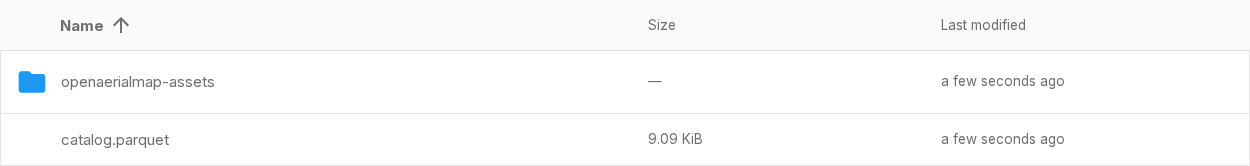
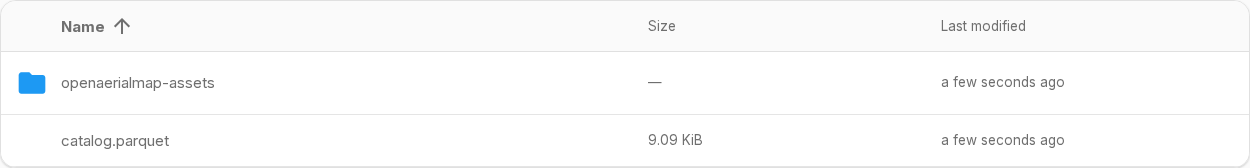
styling changes

diff --git a/frontend/tests/layout.spec.ts b/frontend/tests/layout.spec.ts
@@ -1,78 +1,6 @@
 import { expect, test } from "@playwright/test";
 import { AuthPage } from "./fixtures/auth";
 
-for (const viewport of [
-  { width: 320, height: 568 },
-  { width: 568, height: 320 },
-]) {
-  test(`login controls stay clear of the footer at ${viewport.width}px`, async ({
-    page,
-  }) => {
-    await page.setViewportSize(viewport);
-    const auth = new AuthPage(page);
-    await auth.goto();
-    await page.evaluate(() => document.fonts.ready);
-    for (const selector of [".versioneer-logo", ".eox-logo"]) {
-      const maintainerLogo = page.locator(selector);
-      await expect(maintainerLogo).toBeVisible();
-      expect(
-        await maintainerLogo.evaluate(
-          (image: HTMLImageElement) => image.naturalWidth
-        )
-      ).toBeGreaterThan(0);
-    }
-    expect(
-      await page.locator("#login").evaluate((login) => {
-        return getComputedStyle(login).backgroundColor;
-      })
-    ).toBe(
-      await page.locator("body").evaluate((body) => {
-        return getComputedStyle(body).backgroundColor;
-      })
-    );
-    const button = page.getByRole("button", { name: "Login", exact: true });
-    const buttonBox = await button.boundingBox();
-    const footerBox = await page.locator("#about").boundingBox();
-    expect(buttonBox).not.toBeNull();
-    expect(footerBox).not.toBeNull();
-    expect(buttonBox!.y + buttonBox!.height).toBeLessThan(footerBox!.y);
-    expect(
-      await page.evaluate(() => document.documentElement.scrollWidth)
-    ).toBeLessThanOrEqual(viewport.width);
-    await auth.loginAs();
-    await expect(page.getByLabel("sample.txt", { exact: true })).toBeVisible();
-  });
-}
-
-test("login has a visible keyboard focus state", async ({ page }) => {
-  const auth = new AuthPage(page);
-  await auth.goto();
-  await page.getByPlaceholder("Username").fill("admin");
-  await page.getByPlaceholder("Password").fill("my-password");
-  await page.keyboard.press("Tab");
-  const button = page.getByRole("button", { name: "Login", exact: true });
-  await expect(button).toBeFocused();
-  await expect(button).toHaveCSS("outline-style", "solid");
-  await expect(button).toHaveCSS("outline-width", "2px");
-  await page.keyboard.press("Enter");
-  await expect(page.getByLabel("sample.txt", { exact: true })).toBeVisible();
-});
-
-test("default logo stays visible in dark mode", async ({ page }) => {
-  const auth = new AuthPage(page);
-  await auth.goto();
-  await page.evaluate(() => document.documentElement.classList.add("dark"));
-  await expect(page.locator("#login .logo-img")).toHaveCSS(
-    "filter",
-    "invert(1)"
-  );
-  await auth.loginAs();
-  await expect(page.locator("header .logo-img")).toHaveCSS(
-    "filter",
-    "invert(1)"
-  );
-});
-
 test("closes the latest overlay first", async ({ page }) => {
   await page.setViewportSize({ width: 390, height: 844 });
   const auth = new AuthPage(page);
@@ -96,111 +24,15 @@ test("closes the latest overlay first", async ({ page }) => {
   await expect(page.locator("#dropdown")).not.toHaveClass(/\bactive\b/);
 });
 
-for (const width of [768, 1440]) {
-  test(`long names do not overlap file sizes at ${width}px`, async ({
-    page,
-  }) => {
-    await page.setViewportSize({ width, height: 900 });
-    const auth = new AuthPage(page);
-    await auth.goto();
-    await auth.loginAs();
-    await expect(page.getByLabel("sample.txt", { exact: true })).toBeVisible();
-    const name = "xyz-" + "abcdefghij".repeat(14) + ".txt";
-    await page.route(
-      (url) => url.pathname === "/api/resources/",
-      async (route) => {
-        const response = await route.fetch();
-        const json = await response.json();
-        const item = json.items.find(
-          (entry: { name: string }) => entry.name === "sample.txt"
-        );
-        item.name = name;
-        item.path = "/" + name;
-        await route.fulfill({ response, json });
-      }
-    );
-    await page.goto("/files/");
-    await expect(page.locator("#listing")).toHaveClass(/\blist\b/);
-    const row = page.getByLabel(name, { exact: true });
-    await expect(row).toBeVisible();
-    await page.evaluate(() => document.fonts.ready);
-    const nameBox = await row.locator(".name").boundingBox();
-    const sizeBox = await row.locator(".size").boundingBox();
-    const headingBox = await page
-      .locator("#listing .item.header .size")
-      .boundingBox();
-    expect(nameBox).not.toBeNull();
-    expect(sizeBox).not.toBeNull();
-    expect(headingBox).not.toBeNull();
-    expect(nameBox!.x + nameBox!.width).toBeLessThanOrEqual(sizeBox!.x + 1);
-    expect(Math.abs(headingBox!.x - sizeBox!.x)).toBeLessThan(2);
-  });
-}
-
-for (const width of [320, 390]) {
-  test(`nested breadcrumbs fit the screen at ${width}px`, async ({ page }) => {
-    await page.setViewportSize({ width, height: 844 });
-    const auth = new AuthPage(page);
-    await auth.goto();
-    await auth.loginAs();
-    await expect(page.getByLabel("sample.txt", { exact: true })).toBeVisible();
-    const folder = "67793f0b9478720001790586";
-    await page.goto(`/files/catalog-sample/openaerialmap-assets/${folder}/`);
-    await expect(
-      page.getByLabel("thumbnail.png", { exact: true })
-    ).toBeVisible();
-    await page.evaluate(() => document.fonts.ready);
-    expect(
-      await page.evaluate(() => document.documentElement.scrollWidth)
-    ).toBeLessThanOrEqual(width);
-    await expect(page.locator(".breadcrumbs").getByTitle(folder)).toBeVisible();
-    await page
-      .locator(".breadcrumbs")
-      .getByTitle("openaerialmap-assets")
-      .click();
-    await expect(page.getByLabel(folder, { exact: true })).toBeVisible();
-    await page.goto(
-      `/share/my-share/openaerialmap-assets/${folder}/thumbnail.png`
-    );
-    await expect(page.locator(".share__box__info")).toContainText(
-      "thumbnail.png"
-    );
-    await page.evaluate(() => document.fonts.ready);
-    expect(
-      await page.evaluate(() => document.documentElement.scrollWidth)
-    ).toBeLessThanOrEqual(width);
-  });
-}
-
-test("Inter loads without replacing the icon or editor fonts", async ({
-  page,
-}) => {
+test("navigates with nested breadcrumbs", async ({ page }) => {
+  await page.setViewportSize({ width: 390, height: 844 });
   const auth = new AuthPage(page);
   await auth.goto();
   await auth.loginAs();
   await expect(page.getByLabel("sample.txt", { exact: true })).toBeVisible();
-  expect(
-    await page.evaluate(
-      async () => (await document.fonts.load("16px Inter")).length
-    )
-  ).toBeGreaterThan(0);
-  await expect(page.locator("body")).toHaveCSS("font-family", /Inter/);
-  await expect(page.locator("body")).toHaveCSS("font-size", "15px");
-  await expect(page.locator("header .material-icons").first()).toHaveCSS(
-    "font-size",
-    "24px"
-  );
-  await expect(
-    page.getByLabel("sample.txt", { exact: true }).locator("i")
-  ).toHaveCSS("font-size", "32px");
-  await expect(page.locator(".material-icons").first()).toHaveCSS(
-    "font-family",
-    /Material Icons/
-  );
-  await page.goto("/files/sample.txt");
-  await expect(page.locator(".ace_editor")).toBeVisible();
-  await expect(page.locator(".ace_editor")).not.toHaveCSS(
-    "font-family",
-    /Inter/
-  );
+  const folder = "67793f0b9478720001790586";
+  await page.goto(`/files/catalog-sample/openaerialmap-assets/${folder}/`);
+  await expect(page.getByLabel("thumbnail.png", { exact: true })).toBeVisible();
+  await page.locator(".breadcrumbs").getByTitle("openaerialmap-assets").click();
+  await expect(page.getByLabel(folder, { exact: true })).toBeVisible();
 });

diff --git a/frontend/src/css/login.css b/frontend/src/css/login.css
@@ -44,7 +44,7 @@
 #login form,
 #about {
   border: 1px solid var(--borderPrimary);
-  border-radius: 1rem;
+  border-radius: var(--surface-radius);
   background: var(--surfacePrimary);
   box-shadow: 0 0.5rem 1.5rem rgba(0, 0, 0, 0.07);
 }
@@ -139,20 +139,15 @@
   display: inline-flex;
   align-items: center;
   justify-content: center;
-  height: 2rem;
-  padding: 0.35rem 0.55rem;
-  border: 1px solid var(--borderPrimary);
-  border-radius: 0.6rem;
-  background: white;
+  min-width: 0;
+  padding: 0.25rem;
   transition:
-    border-color 0.15s ease,
-    box-shadow 0.15s ease,
+    opacity 0.15s ease,
     transform 0.15s ease;
 }
 
 #about .logo-link:hover {
-  border-color: var(--borderSecondary);
-  box-shadow: 0 0.2rem 0.6rem rgba(0, 0, 0, 0.12);
+  opacity: 0.8;
   transform: translateY(-1px);
 }
 
@@ -184,6 +179,10 @@
   #about .about-group {
     width: 100%;
     justify-content: space-between;
+  }
+
+  #about .about-maintainers {
+    gap: 0.4rem;
   }
 
   #about .about-divider {

diff --git a/frontend/src/css/listing.css b/frontend/src/css/listing.css
@@ -94,7 +94,7 @@ html[dir="rtl"] #listing {
   width: calc(33% - 1em);
   margin: 0.5em;
   padding: 0.5em;
-  border-radius: 6px;
+  border-radius: var(--surface-radius);
   box-shadow:
     0 1px 3px rgba(0, 0, 0, 0.06),
     0 1px 2px rgba(0, 0, 0, 0.12);
@@ -158,6 +158,19 @@ html[dir="rtl"] #listing {
   width: 100%;
   max-width: 100%;
   margin: 0;
+}
+
+#listing.authenticated-listing.list {
+  border: 1px solid var(--borderPrimary);
+  border-radius: var(--surface-radius);
+  box-shadow:
+    0 1px 3px rgba(0, 0, 0, 0.06),
+    0 1px 2px rgba(0, 0, 0, 0.12);
+  overflow: hidden;
+}
+
+#listing.authenticated-listing.list .item {
+  border-inline: 0;
 }
 
 #listing.list .item {

diff --git a/frontend/src/css/dashboard.css b/frontend/src/css/dashboard.css
@@ -15,7 +15,7 @@ p code {
   background: var(--surfacePrimary);
   color: var(--textSecondary);
   border: 1px solid var(--borderPrimary);
-  border-radius: 6px;
+  border-radius: var(--surface-radius);
   box-shadow: 0 1px 3px var(--borderPrimary);
   overflow: auto;
 }
@@ -195,6 +195,7 @@ html[dir="rtl"] .card .card-title > *:first-child {
 
 .settings-content {
   width: 100%;
+  padding: 1rem;
 }
 
 .card .card-action.full .action i {

diff --git a/frontend/src/css/_variables.css b/frontend/src/css/_variables.css
@@ -22,6 +22,7 @@
   --background: rgb(250, 250, 250);
   --surfacePrimary: rgb(255, 255, 255);
   --surfaceSecondary: rgb(230, 230, 230);
+  --surface-radius: 1rem;
   --divider: rgba(0, 0, 0, 0.05);
   --iconPrimary: var(--icon-blue);
   --iconSecondary: rgb(255, 255, 255);

diff --git a/frontend/src/views/files/FileListing.vue b/frontend/src/views/files/FileListing.vue
@@ -149,7 +149,7 @@
         v-else
         id="listing"
         ref="listing"
-        class="file-icons"
+        class="authenticated-listing file-icons"
         :class="authStore.user?.viewMode ?? ''"
       >
         <div>

diff --git a/frontend/src/css/_share.css b/frontend/src/css/_share.css
@@ -17,7 +17,7 @@
     rgba(0, 0, 0, 0.12) 0px 1px 2px;
   background: var(--surfacePrimary);
   color: var(--textPrimary);
-  border-radius: 6px;
+  border-radius: var(--surface-radius);
   margin: 5px;
   overflow: hidden;
 }
